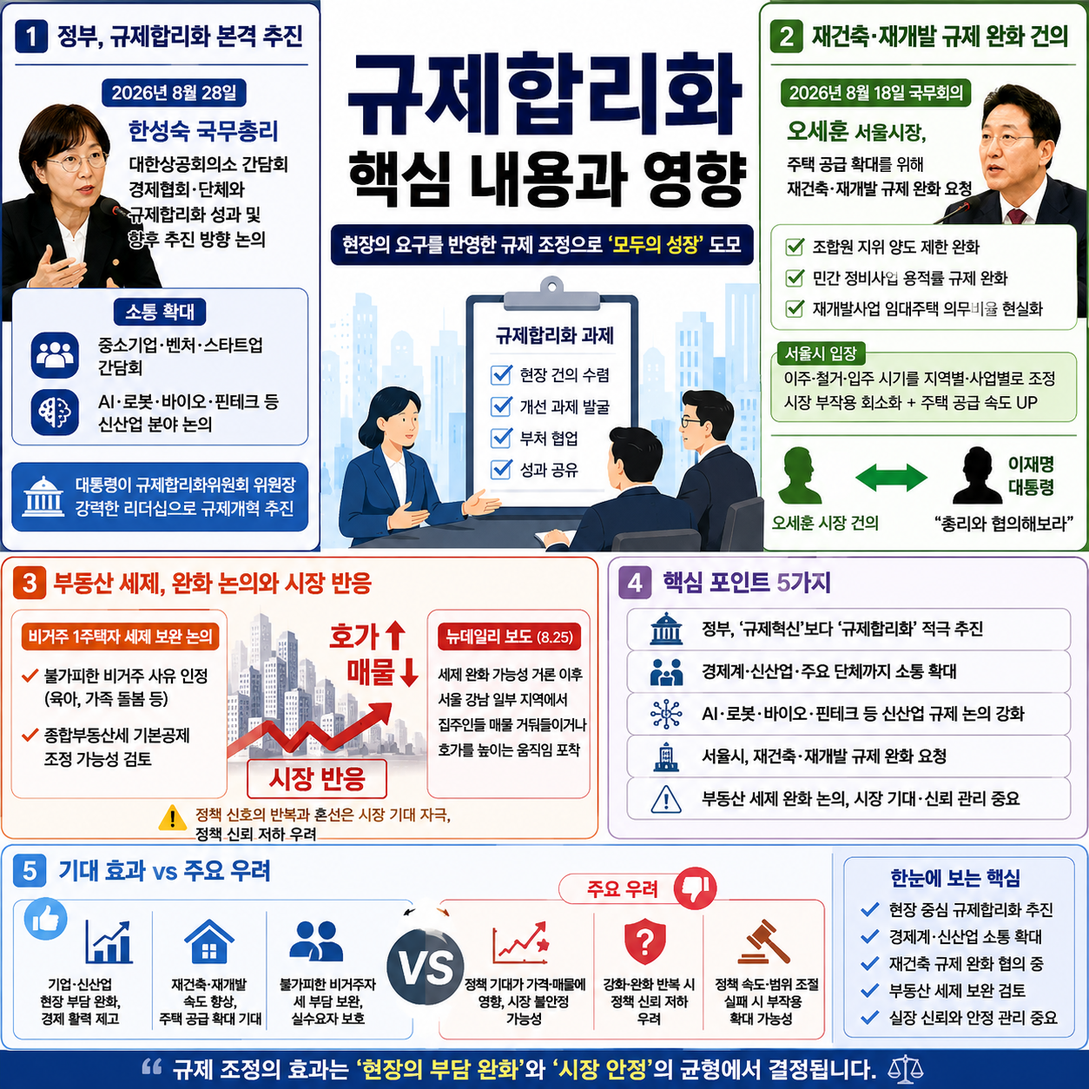
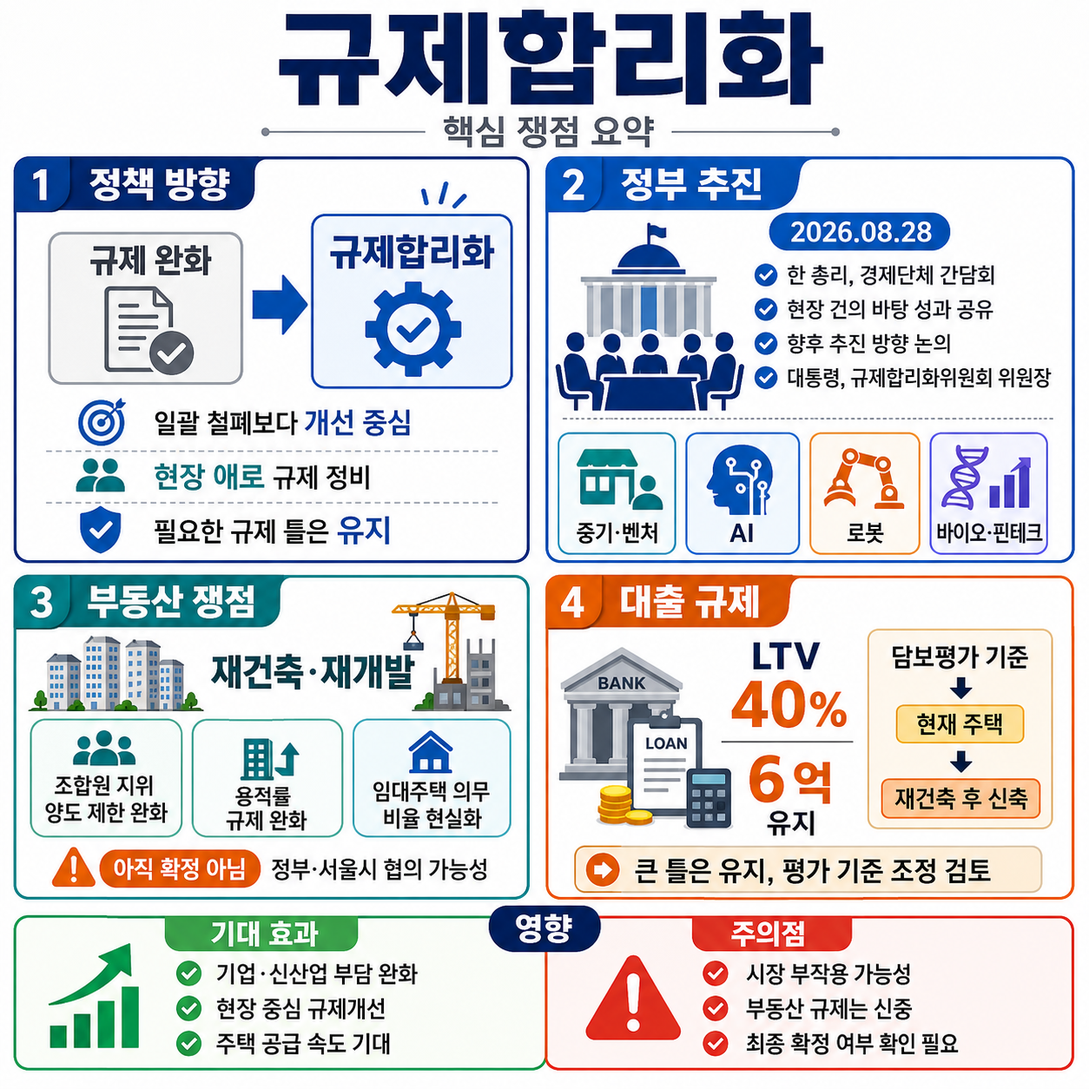
post: auto-generated for tax-yearend

diff --git a/sites/tax-yearend/content/posts/2026-08-29-규제-완화-핵심-내용과-영향-정리.md b/sites/tax-yearend/content/posts/2026-08-29-규제-완화-핵심-내용과-영향-정리.md
@@ -1,100 +1,137 @@
 ---
 title: "규제 완화 핵심 내용과 영향 정리"
 date: 2026-08-29
-description: "요청하신 구성과 조건에 맞춰, 제공된 3개 참고 자료에서 확인되는 사실과 기사에 제시된 평가만 사용해 본문을 완성했습니다. 규제 완화의 일반적 효과와 부동산 분야의 논쟁을 구분해 정리했습니다. 정책·뉴스의 배경과 맥락 2026년 8월 말 정부 정책에서 ‘규제 완화’는 단순히 기존 규제를 일괄적으로 없애는 방식보다는 현장의"
+description: "정책·뉴스의 배경과 맥락 최근 정부 정책에서 ‘규제 완화’보다 ‘규제합리화’라는 표현이 중요한 키워드 로 부상하고 있습니다. 규제를 일괄적으로 없애는 데 초점을 맞추기보다, 현장에서 기업 활동이나 신산업 발전을 제약하는 규제를 찾아 개선하면서도 필요한 규제의 기본 틀은 유지하는 방향으로 접근하고 있다는 점이 특징입니다. "
 categories: ["정책·뉴스"]
 tags: ["규제 완화", "정책·뉴스"]
 author: "오늘의 트렌드"
 image: "/images/규제-완화-핵심-내용과-영향-정리.png"
 ---
 
-요청하신 구성과 조건에 맞춰, 제공된 3개 참고 자료에서 확인되는 사실과 기사에 제시된 평가만 사용해 본문을 완성했습니다. 규제 완화의 일반적 효과와 부동산 분야의 논쟁을 구분해 정리했습니다.
-
 ## 정책·뉴스의 배경과 맥락
 
-2026년 8월 말 정부 정책에서 ‘규제 완화’는 단순히 기존 규제를 일괄적으로 없애는 방식보다는 현장의 요구를 반영해 규제를 조정하는 ‘규제합리화’의 형태로 논의되고 있습니다. 국무조정실에 따르면 한성숙 국무총리는 2026년 8월 28일 서울 중구 대한상공회의소에서 주요 경제협회·단체 관계자들과 간담회를 열고, 국민주권정부 출범 이후 현장 건의를 바탕으로 추진한 규제합리화 성과와 향후 추진 방향을 논의했습니다.
+최근 정부 정책에서 **‘규제 완화’보다 ‘규제합리화’라는 표현이 중요한 키워드**로 부상하고 있습니다. 규제를 일괄적으로 없애는 데 초점을 맞추기보다, 현장에서 기업 활동이나 신산업 발전을 제약하는 규제를 찾아 개선하면서도 필요한 규제의 기본 틀은 유지하는 방향으로 접근하고 있다는 점이 특징입니다.
 
-정부는 규제 개선 논의를 경제계 전반으로 확대하고 있습니다. 한 총리는 취임 이후 중소기업·벤처·스타트업을 비롯해 인공지능(AI), 로봇, 바이오, 핀테크 등 신산업 분야 관계자들과 간담회를 진행했고, 이번에는 주요 경제 협회와 단체까지 참여하는 종합적인 규제합리화 논의를 이어갔습니다. 특히 한 총리는 새 정부가 규제혁신을 강조하고 있으며 대통령이 규제합리화위원회 위원장을 맡아 규제개혁을 추진하고 있다고 설명했습니다.
+2026년 8월 28일 국무조정실에 따르면 한성숙 국무총리는 서울 중구 대한상공회의소에서 주요 경제협회·단체와 간담회를 열었습니다. 이 자리에서는 국민주권정부 출범 이후 현장 건의를 바탕으로 추진한 규제합리화 성과를 공유하고 향후 추진 방향을 논의했습니다. 한 총리는 새 정부가 규제혁신을 강조하고 있으며, **대통령이 규제합리화위원회 위원장을 맡아 규제개혁을 추진하고 있다**고 밝혔습니다.
 
-규제 완화 논의가 특히 첨예하게 나타나는 분야는 부동산입니다. 서울시는 주택 공급을 확대하고 정비사업 속도를 높이기 위해 재개발·재건축 관련 규제를 완화해야 한다는 입장입니다. 오세훈 서울시장은 2026년 8월 18일 이재명 대통령 주재 국무회의에 참석해 재건축·재개발을 주택 공급 해법으로 제시하면서 관련 규제를 풀어달라고 요청했습니다.
+이번 간담회가 단독 행사에 그친 것도 아닙니다. 참고 자료에 따르면 한 총리 취임 이후 중소기업·벤처·스타트업을 대상으로 한 대토론회와 인공지능(AI)·로봇·바이오·핀테크 등 신산업 분야 간담회가 진행됐고, 이후 경제계 대표들과 종합적인 규제개선 방향을 논의하는 자리로 이어졌습니다. 정부가 현장 의견을 수렴하고 이를 규제개선 과제로 연결하려는 흐름으로 볼 수 있습니다.
 
-구체적으로 서울시는 조합원 지위 양도 제한 완화, 민간 정비사업 용적률 규제 완화, 재개발사업 임대주택 의무비율 현실화 등을 건의한 것으로 전해졌습니다. 서울시는 규제를 완화하면서도 이주·철거·입주 시기를 지역별·사업별로 조정하면 시장에 미치는 부작용을 줄이고 주택 공급 속도를 높일 수 있다는 입장입니다. 이에 이 대통령은 오 시장에게 총리와 협의해보라는 취지로 답한 것으로 알려졌습니다.
+규제 문제가 특히 민감하게 나타나는 분야 가운데 하나는 **부동산**입니다. 여기에서는 단순히 규제를 풀 것인지 말 것인지보다 **주택 공급 확대와 시장 안정이라는 두 목표를 어떻게 조정할 것인지**가 핵심 쟁점으로 떠오르고 있습니다.
 
-반면 규제 완화가 시장에 항상 긍정적으로만 작용하는 것은 아니라는 지적도 나옵니다. 특히 부동산 세제처럼 자산가격과 시장 심리에 직접 영향을 주는 정책은 강화와 완화 신호가 짧은 기간에 반복될 경우 시장의 기대를 자극하거나 정책 신뢰를 떨어뜨릴 수 있다는 평가가 제기되고 있습니다. 뉴데일리는 비거주 1주택자에 대한 세제 부담 완화 가능성이 거론된 이후 서울 강남 일부 지역에서 집주인들이 매물을 거둬들이거나 호가를 높이는 움직임이 나타났다고 보도했습니다.
+2026년 8월 18일 국무회의에서는 오세훈 서울시장이 주택 공급 해법으로 재건축·재개발을 제시하면서 관련 규제 완화를 요청했습니다. 구체적으로는 **조합원 지위 양도 제한 완화, 민간 정비사업 용적률 규제 완화, 재개발사업 임대주택 의무 비율 현실화** 등이 건의된 것으로 전해졌습니다. 오 시장은 서울시에 일정한 재량권이 주어진다면 이주·철거·입주 시기를 지역별·사업별로 조정해 시장 부작용을 최소화하면서 공급 속도를 높이겠다는 입장도 밝혔습니다.
 
-결국 현재의 규제 완화 논의는 기업 활동과 신산업의 불필요한 부담을 줄여 경제 활력을 높이려는 흐름과, 부동산처럼 규제 변화가 가격과 시장 심리에 영향을 줄 수 있는 분야에서 정책의 속도와 범위를 어떻게 조정할 것인지라는 두 가지 과제를 동시에 안고 있다고 볼 수 있습니다.
+다만 이러한 요구가 곧바로 정부 정책으로 확정됐다고 해석해서는 안 됩니다. 참고 자료에 따르면 이재명 대통령은 오 시장의 재건축 규제 완화 요청과 관련해 **총리와 협의해보라는 취지의 답변**을 한 것으로 알려졌습니다. 따라서 현재 확인되는 것은 서울시의 건의와 정부·서울시 간 협의 가능성이지, 해당 규제 완화안의 최종 확정은 아닙니다.
 
-## 주요 내용 정리 - 핵심 포인트 5가지
+대출 규제에서도 비슷한 흐름이 나타납니다. 재건축 과정의 기본 이주비 대출과 관련해서는 규제 개선 방안이 검토되고 있지만, 참고 자료에 따르면 규제지역의 **담보인정비율(LTV·담보가치 대비 대출 가능 비율) 40%와 주택담보대출 한도 6억 원이라는 큰 틀은 유지하는 방향**이 거론됐습니다. 대신 담보가치를 현재 부동산이 아닌 재건축 후 신축 부동산을 기준으로 평가하는 방안이 유력한 것으로 전해졌습니다.
 
-### 1. 정부가 ‘규제혁신’보다 ‘규제합리화’를 적극 추진
+결국 세 자료를 종합하면 현재의 규제 논의는 **‘모든 규제를 크게 푼다’는 하나의 방향으로 단순화하기 어렵습니다.** 기업·신산업 분야에서는 현장 건의를 중심으로 규제합리화를 추진하는 한편, 주택 분야에서는 공급 확대를 위한 규제 완화 요구와 기존 시장·대출 규제의 틀을 유지하려는 움직임이 동시에 나타나고 있습니다.
 
-정부는 현장에서 제기되는 규제 문제를 수렴하고 개선하는 방향으로 규제 정책을 추진하고 있습니다. 한성숙 국무총리는 경제계와의 간담회에서 그동안 진행된 규제합리화 성과를 공유하고 향후 개선 방향을 논의했습니다.
+---
 
-정부가 강조하는 방향은 규제를 무조건 없애는 것이 아니라 기업·산업 현장에서 불합리하거나 과도하다고 지적되는 규제를 조정하고, 그 성과가 경제 성장으로 이어지게 하겠다는 것입니다.
+## 주요 내용 정리 — 핵심 포인트 5가지
 
-### 2. 경제계와의 규제개선 소통을 확대
+### 1. 정부는 ‘규제합리화’를 주요 정책 방향으로 제시하고 있습니다
 
-규제 개선 논의 대상도 넓어지고 있습니다. 중소기업과 벤처·스타트업뿐 아니라 AI·로봇·바이오·핀테크 등 신산업 분야를 거쳐 주요 경제협회·단체까지 규제 논의가 확대됐습니다.
+정부가 강조하는 핵심은 현장의 규제개선 요구를 정책에 반영하는 것입니다. 8월 28일 간담회에서는 경제계 대표들과 그동안 추진한 규제합리화 성과를 공유하고 향후 방향을 논의했습니다.
 
-정부는 경제 협·단체와의 소통을 정례화하고 규제개선 과제와 개선사항을 공유하는 방향을 추진하고 있습니다. 이는 규제 정책을 정부 내부에서 일방적으로 결정하기보다 산업 현장의 의견을 지속적으로 반영하려는 움직임으로 볼 수 있습니다.
+특히 대통령이 규제합리화위원회 위원장을 맡는다는 점을 정부는 규제개혁 추진 의지를 보여주는 요소로 제시하고 있습니다. 정부 차원의 규제개선 논의가 경제계와의 소통을 통해 이어지고 있다는 점도 주목할 부분입니다.
 
-### 3. 서울시는 재건축·재개발 규제 완화를 주택 공급 해법으로 제시
+### 2. 중소기업·스타트업과 신산업 분야의 규제 문제가 논의되고 있습니다
 
-서울시는 주택 공급 확대를 위해 신규 공공주택 공급뿐 아니라 기존 도심의 재개발·재건축을 활성화해야 한다는 입장입니다.
+규제합리화 논의는 기존 산업에만 국한되지 않습니다. 참고 자료에서는 **중소기업·벤처·스타트업뿐 아니라 AI·로봇·바이오·핀테크 등 신산업 분야**가 규제 논의 대상으로 등장합니다.
 
-오세훈 시장이 정부에 건의한 내용에는 조합원 지위 양도 제한 완화, 민간 정비사업 용적률 규제 완화, 재개발사업 임대주택 의무비율 현실화 등이 포함된 것으로 전해졌습니다.
+새로운 산업은 기존 제도가 예상하지 못했던 사업 방식이나 기술을 활용할 수 있기 때문에 규제가 산업 발전에 어떤 영향을 미치는지가 중요한 쟁점이 될 수 있습니다. 다만 참고 자료에는 각 산업별 구체적인 규제 완화 항목 전체가 제시돼 있지 않으므로 개별 제도의 변경 여부는 별도로 확인해야 합니다.
 
-서울시는 관련 재량권이 확대될 경우 이주·철거·입주 시기를 지역별·사업별로 조정하면서 공급 속도를 높일 수 있다고 주장하고 있습니다.
+### 3. 서울시는 재건축·재개발 규제 완화를 주택 공급 대책으로 제시했습니다
 
-### 4. 부동산 세제에서도 일부 완화 가능성이 거론
+서울시는 재건축과 재개발의 속도를 높이는 것을 주택 공급 해법 중 하나로 보고 있습니다.
 
-부동산 세제에서는 비거주 1주택자에 대한 부담을 조정할 필요성이 제기되고 있습니다.
+국무회의에서 건의된 것으로 전해진 내용은 다음과 같습니다.
 
-뉴데일리 보도에 따르면 김민석 더불어민주당 대표는 2026년 8월 23일 고위당정협의회에서 세제개편 방향에는 원칙적으로 공감하면서도 비거주 1주택자에 대한 보완이 필요하다는 입장을 밝혔습니다.
+| 건의 사항        | 핵심 내용                   | 현재 확인되는 상태         |
+| ------------ | ----------------------- | ------------------ |
+| 조합원 지위 양도 제한 | 관련 제한 완화 요청             | 서울시 건의             |
+| 민간 정비사업 용적률  | 규제 완화 요청                | 서울시 건의             |
+| 재개발 임대주택     | 의무 비율 현실화 요청            | 서울시 건의             |
+| 사업 일정 관리     | 이주·철거·입주 시기를 지역·사업별로 조정 | 서울시가 재량권 확대 필요성 제시 |
 
-기사에서는 육아나 가족 돌봄 등 불가피한 비거주 사유를 인정하는 방안과 비거주 1주택자의 종합부동산세 기본공제와 관련한 보완 가능성이 거론되고 있다고 전했습니다. 다만 제공된 자료상 이는 확정된 정책이 아니라 검토 가능성이 언급되는 단계이므로 실제 제도 변경 여부는 향후 공식 발표를 확인해야 합니다.
+중요한 점은 **‘건의’와 ‘확정’을 구분해야 한다는 것**입니다. 참고 자료에서 확인되는 단계는 서울시가 정부에 규제 완화를 요청하고 협의 가능성이 제기된 수준입니다.
 
-### 5. 규제 완화가 시장 기대를 자극할 가능성도 존재
+### 4. 이주비 대출 규제는 ‘전면 완화’보다 평가 방식 조정이 거론됐습니다
 
-규제 완화는 기업이나 실수요자의 부담을 줄일 수 있지만, 부동산처럼 시장 참여자의 기대가 가격에 빠르게 반영되는 분야에서는 다른 결과가 나타날 수 있습니다.
+재건축 사업에서는 기존 주택에서 이주해야 하는 조합원의 자금 조달이 중요한 문제입니다.
 
-뉴데일리는 비거주 1주택자 세제 보완 논의 이후 서울 강남 일부 지역에서 매도자의 호가 조정 움직임이 나타났다고 보도했습니다. 기사에 따르면 서초구 반포동 일부 매물에서는 호가가 1억 원 오른 사례도 확인됐습니다.
+참고 자료에 따르면 규제지역의 기본 이주비는 LTV 40%가 적용되고 대출 한도 역시 6억 원 이내입니다. 업계에서는 이주비 대출을 일반 주택담보대출과 다르게 다뤄야 한다고 주장해 왔으며, 서울시는 LTV를 70%로 높이는 방안을 건의한 것으로 전해졌습니다.
 
-이 때문에 규제를 완화할 때 정책 효과뿐 아니라 시장 기대와 가격 움직임까지 함께 고려해야 한다는 문제가 제기되고 있습니다.
+그러나 당시 정부가 검토 중인 것으로 알려진 방안은 **40%와 6억 원의 기본 틀을 유지하면서 담보 평가기준을 현재 부동산에서 재건축 후 신축 부동산으로 변경하는 것**이었습니다.
 
-## 국민에게 미치는 영향 - 긍정적·부정적 측면
+즉, 규제의 숫자 자체를 크게 바꾸기보다는 평가 방식을 조정해 실제 이주비 조달 여력을 개선하는 접근입니다.
 
-| 구분  | 예상되는 영향                   | 참고할 점                            |
-| --- | ------------------------- | -------------------------------- |
-| 긍정적 | 기업의 규제 부담 완화 가능성          | 현장 건의를 반영한 규제합리화가 추진되고 있음        |
-| 긍정적 | 신산업 사업 추진 환경 개선 가능성       | AI·로봇·바이오·핀테크 등과 규제 논의 진행        |
-| 긍정적 | 재건축·재개발 사업 속도 개선 가능성      | 서울시가 관련 규제 완화를 정부에 건의            |
-| 긍정적 | 일부 비거주 1주택자의 세 부담 보완 가능성  | 구체적인 제도 변경은 아직 확정되지 않음           |
-| 부정적 | 부동산 가격 기대 심리 자극 가능성       | 일부 강남 지역에서 호가 상승 움직임 보도          |
-| 부정적 | 정책 변경이 잦을 경우 시장 혼선 가능성    | 세제 강화·완화 방향 변화에 대한 비판 제기         |
-| 부정적 | 규제 완화의 혜택이 특정 시장에 집중될 가능성 | 부동산 규제 변화에 따른 자산가격 반응을 함께 고려해야 함 |
+### 5. 규제 완화의 핵심 쟁점은 ‘속도’와 ‘부작용 관리’입니다
 
-규제합리화가 기업과 신산업 분야에서 불필요한 행정 부담을 줄인다면 투자와 사업 추진 과정이 원활해질 가능성이 있습니다. 특히 정부가 현장 의견을 정기적으로 수렴하고 개선 결과를 공유한다면 기업 입장에서는 규제의 예측 가능성을 높이는 효과를 기대할 수 있습니다.
+규제를 풀면 사업 추진이나 공급 속도가 빨라질 수 있다는 기대가 있습니다. 반면 주택시장처럼 시장에 미치는 파급효과가 큰 분야에서는 규제 완화의 부작용도 함께 고려해야 합니다.
 
-주택 분야에서는 재건축·재개발 사업에 적용되는 규제가 조정될 경우 사업 진행 속도가 빨라지고 중장기적으로 주택 공급 확대에 도움이 될 수 있다는 것이 서울시의 입장입니다.
+서울시 역시 단순히 규제를 풀어달라는 데서 그치지 않고, 재량권을 확보할 경우 **이주·철거·입주 시기를 지역별·사업별로 조정해 시장 부작용을 최소화하겠다**는 입장을 밝혔습니다.
 
-반면 규제 완화의 효과가 실제 공급 증가보다 시장 기대에 먼저 반영될 가능성도 있습니다. 특히 세금이나 재건축 규제는 집주인의 매도·보유 판단에 직접 영향을 줄 수 있기 때문에 완화 가능성만으로도 매물이 줄거나 호가가 올라갈 수 있습니다.
+따라서 현재 규제 논의를 이해할 때는 ‘규제 강화 대 규제 완화’라는 이분법보다 **어떤 규제를, 어느 범위까지, 어떤 안전장치와 함께 조정하느냐**를 살펴보는 것이 중요합니다.
 
-따라서 국민 입장에서는 ‘규제가 완화된다’는 표현만 보고 혜택을 단정하기보다 어떤 규제가 누구에게, 어떤 조건으로 완화되는지를 구체적으로 확인할 필요가 있습니다.
+---
+
+## 국민에게 미치는 영향 — 긍정적 측면과 부정적 측면
+
+규제합리화가 국민에게 미치는 영향은 분야마다 다를 수 있습니다. 특히 기업 규제와 부동산 규제는 영향을 받는 대상과 정책 목적이 다르기 때문에 구분해서 볼 필요가 있습니다.
+
+| 구분      | 기대되는 긍정적 측면                          | 우려·한계                                           |
+| ------- | ------------------------------------ | ----------------------------------------------- |
+| 기업·산업   | 현장 애로 규제 개선 기대                       | 구체적인 개선 내용에 따라 체감 효과가 달라질 수 있음                  |
+| 신산업     | AI·로봇·바이오·핀테크 등 새로운 산업의 규제 문제 논의     | 분야별 구체적 변경 사항은 별도 확인 필요                         |
+| 재건축·재개발 | 정비사업 속도를 높여 공급 확대에 기여할 가능성           | 규제 완화안 자체가 아직 확정되지 않은 사항이 있음                    |
+| 이주비     | 담보 평가기준 변경 시 일부 조합원의 대출 가능액이 늘어날 가능성 | LTV 40%·6억 원 틀이 유지될 경우 업계가 요구한 수준에는 미치지 못할 수 있음 |
+| 주택시장    | 공급 절차 개선 가능성                         | 이주·철거·입주가 집중될 경우 시장 부작용 관리가 필요하다는 문제의식 존재       |
+
+### 긍정적으로 보는 시각
+
+가장 큰 기대는 **규제가 현실과 맞지 않는 부분을 개선해 경제활동의 효율성을 높일 수 있다는 것**입니다. 정부가 중소기업·벤처·스타트업과 신산업 현장의 목소리를 직접 듣고 경제계와 규제개선 방향을 논의하는 것은 현장 중심의 제도 개선이라는 측면에서 의미가 있습니다.
+
+부동산 분야에서는 재건축·재개발 규제가 조정될 경우 정비사업의 진행 속도를 높이고 주택 공급을 확대하는 데 도움이 될 수 있다는 논리가 있습니다. 서울시가 규제 완화를 주택 공급 해법으로 제시한 것도 이러한 판단에 기반합니다.
+
+이주비 문제에서도 담보 평가기준을 현재 부동산이 아니라 신축 후 부동산으로 변경하면 기존보다 담보가치가 높게 평가되는 경우 대출 가능 금액이 증가할 여지가 있습니다.
+
+### 신중하게 보는 시각
+
+반면 규제를 완화한다고 해서 모든 문제가 자동으로 해결되는 것은 아닙니다.
+
+특히 부동산에서는 사업 속도가 빨라지는 것과 시장 안정이 동시에 고려돼야 합니다. 서울시가 이주·철거·입주 시기를 지역별·사업별로 조정하겠다고 밝힌 것 역시 공급 확대 과정에서 발생할 수 있는 부작용을 의식한 것으로 볼 수 있습니다.
+
+이주비 대출 역시 업계가 원하는 수준과 정부가 검토하는 것으로 알려진 수준 사이에 차이가 있습니다. 업계는 이주비 대출을 일반 주택담보대출이 아니라 사업자금으로 관리해야 한다는 의견을 제시했고, 서울시는 LTV 70%를 건의했습니다. 반면 참고 자료에서 전해진 정부 검토 방향은 LTV 40%와 6억 원이라는 틀을 유지하는 것이었습니다.
+
+따라서 정책 수혜자 입장에서는 **‘규제 완화’라는 표현만 보고 대출 한도나 사업 조건이 즉시 크게 달라졌다고 판단하지 않는 것이 중요합니다.**
+
+---
 
 ## 전문가 의견 및 분석
 
-제공된 자료를 종합하면 현재 규제 완화 논의의 핵심 쟁점은 ‘규제를 얼마나 많이 없앨 것인가’보다는 ‘어떤 규제를 어떤 방식으로 조정할 것인가’에 가깝습니다.
+이번 참고 자료에서 확인되는 규제합리화 논의의 특징은 **정부·지방자치단체·업계가 규제 문제의 방향에는 일정 부분 공감하면서도 구체적인 완화 수준에서는 차이가 있다는 점**입니다.
 
-정부는 규제합리화를 경제 성장과 연결하려는 입장입니다. 기업과 신산업 분야에서 불필요한 규제가 사업 추진을 늦추거나 새로운 서비스의 시장 진입을 막는 경우 이를 개선하면 경제 활동을 촉진할 수 있다는 논리입니다. 정부가 경제 협·단체와 소통을 정례화하려는 것도 현장에서 실제로 부담이 되는 규제를 지속적으로 확인하기 위한 조치로 해석할 수 있습니다.
+부동산 이주비 규제가 대표적입니다.
 
-주택 분야에서는 규제 완화의 목적이 보다 구체적입니다. 서울시는 재건축·재개발 규제를 조정해 사업 속도를 높이면 서울 내 주택 공급을 확대할 수 있다고 보고 있습니다. 특히 단순히 규제를 풀기만 하는 것이 아니라 이주·철거·입주 시기를 사업별로 조정해 시장에 미치는 부작용을 최소화하겠다는 입장을 제시했습니다.
+업계에서는 기본 이주비가 일반적인 주택담보대출과 성격이 다르기 때문에 규제를 차등 적용해야 한다고 주장했습니다. 이주비를 주택담보대출이 아닌 사업자금으로 관리해야 한다는 의견도 제시했습니다.
 
-하지만 시장 반응은 정책 목표와 다르게 나타날 수 있습니다. 뉴데일리는 비거주 1주택자에 대한 세 부담 완화 가능성이 거론된 이후 일부 강남 아파트에서 호가가 다시 상승하는 움직임이 나타났다고 보도했습니다.
+서울시는 더 구체적으로 LTV 비율을 70%로 높여달라고 건의한 것으로 보도됐습니다.
 
-이 사례는 규제 완화 정책을 평가할 때 실제 시행 이후의 효과뿐 아니라 정책 발표와 검토 단계에서 발생하는 기대 심리도 중요하다는 점을 보여줍니다.
+하지만 파이낸셜뉴스 보도에서 전해진 정부 검토 방향은 이보다 제한적입니다. **LTV 40%와 6억 원이라는 기본 틀을 유지하고 담보가치 평가기준을 조정하는 방안**이 유력한 것으로 알려졌기 때문입니다.
 
-또 하나의 쟁점은 정책의 일관성입니다. 규제를 강화했다가 비교적 짧은 기간 안에 보완하거나 완화하는 움직임이 반복될 경우 시장 참여자들이 장기적인 정책 방향을 판단하기 어려워질 수 있다는 비판이 제기되고 있습니다. 따라서 규제 완화 자체뿐 아니라 정책 결정 과정과 기준을 명확하게 설명하는 것이 중요해질 것으로 보입니다.
+업계 관계자 역시 담보평가 기준이 바뀌면 대출액이 어느 정도 늘어날 수 있지만 시장에서 원하는 수준의 규제 완화와는 거리가 있다는 취지로 평가했습니다. 또 다른 업계 관계자도 실질적으로는 담보가치 평가기준만 바뀌는 것 같다는 견해를 밝혔습니다.
+
+이 대목은 규제합리화 정책을 해석하는 데 중요한 단서입니다.
+
+정부가 규제개혁을 강조한다고 해서 모든 분야에서 기존 규제를 일괄적으로 폐지하거나 완화하는 것은 아닙니다. **현행 규제의 목적을 유지하면서 적용 방식이나 평가 기준을 조정하는 것도 규제합리화에 포함될 수 있습니다.**
+
+재건축·재개발 규제도 마찬가지입니다. 서울시는 조합원 지위 양도 제한, 용적률, 임대주택 의무 비율 등에 대한 완화를 요구하고 있지만, 참고 자료 기준으로 이 요구들이 모두 정부 정책으로 확정됐다고 볼 근거는 없습니다.
+
+따라서 현 단계에서는 **정부의 규제합리화 추진 의지**, **서울시의 재건축·재개발 규제 완화 요구**, **이주비 대출 규제의 제한적인 개선 가능성**을 각각 구분해 이해하는 것이 정확합니다.
+
+---
 
 
 <figure class="post-mid-image">
@@ -103,105 +140,112 @@ image: "/images/규제-완화-핵심-내용과-영향-정리.png"
 
 ## 향후 전망과 일정
 
-현재 자료에서 확인되는 규제합리화 논의는 한 차례 조치로 끝나기보다 정부와 경제계의 지속적인 협의 방식으로 추진될 가능성이 있습니다.
+참고 자료에서 확인되는 흐름을 시간 순서로 정리하면 다음과 같습니다.
 
-국무조정실은 경제 협·단체와의 소통을 정례화하고 규제개선 과제와 개선사항을 공유하는 방향을 제시했습니다. 따라서 앞으로도 산업계가 제시한 규제 개선 요구와 정부의 검토 결과가 계속 공개될 가능성이 있습니다.
+| 시점           | 주요 내용                                 | 의미                                            |
+| ------------ | ------------------------------------- | --------------------------------------------- |
+| 2026년 7월     | 서울시가 재건축 관련 규제개선 내용을 정부 측에 전달한 것으로 보도 | 재건축·재개발 규제 완화 논의                              |
+| 2026년 7월 26일 | 이주비 대출 규제 개선 방향 관련 보도                 | LTV 40%·6억 원 틀 유지, 담보평가 기준 변경 방안이 유력한 것으로 전해짐 |
+| 2026년 8월 18일 | 오세훈 서울시장이 국무회의에서 재건축·재개발 규제 완화 요청     | 중앙정부와 서울시 간 협의 가능성 부각                         |
+| 2026년 8월 28일 | 한성숙 국무총리와 주요 경제협회·단체 간 규제합리화 간담회      | 기존 성과 공유 및 향후 추진 방향 논의                        |
 
-부동산 분야에서는 서울시의 재건축·재개발 규제 완화 건의를 두고 정부와 서울시의 후속 협의가 중요한 변수가 될 것으로 보입니다. 이 대통령이 오 시장에게 총리와 협의해보라는 취지로 답한 만큼 실제 어떤 규제가 논의 대상에 오를지 지켜볼 필요가 있습니다.
+앞으로 주목할 부분은 크게 두 갈래입니다.
 
-세제 분야에서는 비거주 1주택자에 대한 보완 필요성이 제기됐지만, 제공된 자료에서는 최종 확정된 내용까지 확인되지 않습니다. 따라서 세 부담과 관련한 의사결정은 공식적인 정책 발표와 확정 내용을 확인한 뒤 판단하는 것이 필요합니다.
+첫째는 **정부의 전반적인 규제합리화 정책이 구체적인 제도 변경으로 어떻게 연결되는지**입니다. 정부는 경제계와의 소통을 이어가면서 규제개선 과제와 개선사항을 공유하는 방향을 제시하고 있습니다.
 
-### 주요 흐름 타임라인
+둘째는 **부동산 규제와 관련한 정부·서울시 협의가 실제 정책 변화로 이어지는지**입니다. 이재명 대통령이 오세훈 시장의 요청에 대해 총리와 협의해보라는 취지로 답한 것으로 전해진 만큼 향후 협의 과정이 중요한 변수가 될 수 있습니다.
 
-| 날짜           | 주요 내용                                       |
-| ------------ | ------------------------------------------- |
-| 2026년 8월 18일 | 오세훈 서울시장이 국무회의에서 재건축·재개발 규제 완화를 요청          |
-| 2026년 8월 23일 | 고위당정협의회에서 비거주 1주택자에 대한 세제 보완 필요성 제기         |
-| 2026년 8월 25일 | 세제 완화 기대와 일부 강남 지역 호가 조정 움직임 관련 보도          |
-| 2026년 8월 28일 | 한성숙 국무총리가 경제 협·단체와 규제합리화 간담회 개최             |
-| 향후           | 경제계 규제개선 과제 논의와 정부·서울시 간 부동산 규제 관련 협의 여부 주목 |
+다만 제공된 참고 자료에는 개별 규제 개선안의 최종 확정일이나 시행일 등 구체적인 향후 일정이 명시돼 있지 않습니다. 따라서 시행 시기나 최종 변경 내용은 **관련 정부 부처와 지방자치단체의 공식 안내를 확인할 필요가 있습니다.**
+
+---
 
 ## 관련 정책 비교
 
-| 구분    | 정부 규제합리화             | 재건축·재개발 규제 완화 건의                       | 비거주 1주택자 세제 보완 논의          |
-| ----- | -------------------- | -------------------------------------- | -------------------------- |
-| 주요 목적 | 불합리한 규제 개선과 경제 성장 연결 | 정비사업 속도 개선 및 주택 공급 확대                  | 불가피한 비거주자의 세 부담 문제 보완      |
-| 주요 대상 | 기업·산업 전반             | 서울 재개발·재건축 사업                          | 비거주 1주택자                   |
-| 주요 내용 | 현장 건의 수렴, 개선과제 공유    | 조합원 지위 양도 제한·용적률·임대주택 의무비율 관련 규제 완화 건의 | 비거주 사유 및 세 부담 보완 방안 검토 가능성 |
-| 현재 단계 | 정부 차원의 규제합리화 추진      | 서울시가 정부에 건의한 단계                        | 보완 필요성이 제기된 단계             |
-| 기대 효과 | 기업 활동과 신산업 활성화       | 정비사업 속도 및 공급 확대 가능성                    | 일부 실수요자의 세 부담 조정 가능성       |
-| 우려 요인 | 분야별 효과 차이            | 시장 기대 심리와 가격 상승 가능성                    | 정책 변경에 따른 시장 혼선 가능성        |
+이번 규제 논의는 하나의 정책으로 묶기보다 성격에 따라 나눠서 보는 것이 이해하기 쉽습니다.
 
-표에서 가장 중요한 부분은 세 정책의 진행 단계가 서로 다르다는 점입니다. 정부의 전반적인 규제합리화는 이미 추진되고 있는 정책 방향이지만, 서울시가 요청한 재건축·재개발 규제 완화는 정부와의 협의가 필요한 사안입니다. 비거주 1주택자에 대한 세제 보완 역시 제공된 자료 기준으로는 최종 확정 정책이라고 볼 수 없습니다.
+| 정책·논의 분야         | 추진·제안 주체      | 주요 내용                            | 참고 자료상 상태    |
+| ---------------- | ------------- | -------------------------------- | ------------ |
+| 경제 전반 규제합리화      | 정부            | 현장 건의를 바탕으로 규제개선 추진              | 정부 추진 방향     |
+| 중소기업·벤처·스타트업 규제  | 정부·관련 업계      | 현장 의견 수렴 및 규제 문제 논의              | 대토론회 등 진행    |
+| AI·로봇·바이오·핀테크 규제 | 정부·관련 업계      | 신산업 규제 문제 논의                     | 분야별 간담회 진행   |
+| 재건축·재개발 규제       | 서울시 건의        | 조합원 지위 양도 제한, 용적률 등 규제 완화 요청     | 정부에 건의·협의 단계 |
+| 재개발 임대주택         | 서울시 건의        | 의무 비율 현실화 요청                     | 정부에 건의       |
+| 기본 이주비 대출        | 정부 검토 방향으로 보도 | LTV 40%·6억 원 틀 유지, 담보평가 기준 조정 방안 | 검토 방향으로 보도   |
+| 이주비 LTV 확대       | 서울시 건의        | LTV 70% 건의                       | 건의 사항        |
+| 이주비 성격 변경        | 업계 건의         | 일반 주담대가 아닌 사업자금으로 관리 요구          | 업계 의견        |
+
+이 표에서 가장 중요하게 봐야 할 부분은 마지막 열입니다.
+
+**정부가 추진한다고 공식적으로 밝힌 방향과 지방자치단체·업계가 정부에 건의한 내용은 동일하지 않습니다.**
+
+예를 들어 ‘서울시가 이주비 LTV 70%를 건의했다’는 사실을 ‘정부가 LTV를 70%로 완화한다’고 표현하면 정책의 현재 상태를 잘못 전달하게 됩니다.
+
+마찬가지로 재건축·재개발 규제 완화 역시 서울시의 요청 사항과 실제 정부 정책으로 확정된 사항을 구분해서 살펴봐야 합니다.
+
+---
 
 ## 시민이 알아야 할 점 5가지
 
-### 1. ‘규제 완화’라고 해서 모든 규제가 동시에 없어지는 것은 아닙니다
+**첫째, ‘규제 완화’와 ‘규제합리화’를 구분해서 볼 필요가 있습니다.**
+정부가 현재 강조하는 표현은 규제합리화입니다. 규제를 무조건 없애는 것이 아니라 현장에서 불합리하다고 제기되는 규제를 검토하고 개선하는 접근으로 이해할 필요가 있습니다.
 
-현재 정부가 사용하는 핵심 표현은 ‘규제합리화’입니다. 따라서 개별 규제의 목적과 필요성을 따져 조정하는 방식으로 진행될 가능성이 높습니다.
+**둘째, 재건축·재개발 규제 완화안은 건의와 확정을 반드시 구분해야 합니다.**
+조합원 지위 양도 제한 완화, 민간 정비사업 용적률 규제 완화, 재개발사업 임대주택 의무 비율 현실화 등은 참고 자료에서 서울시가 정부에 건의한 내용으로 확인됩니다. 모두 시행이 확정됐다고 볼 수는 없습니다.
 
-### 2. 재건축·재개발 규제 완화는 아직 서울시의 건의 사항이 포함돼 있습니다
+**셋째, 이주비 대출의 LTV 70% 역시 서울시의 건의 사항입니다.**
+참고 자료에서 확인되는 정부 검토 방향으로는 기존 LTV 40%와 6억 원이라는 틀이 유지되고 담보 평가기준을 변경하는 방안이 유력한 것으로 전해졌습니다.
 
-조합원 지위 양도 제한, 용적률, 임대주택 의무비율 등에 대한 완화 필요성이 제기됐지만 제공된 자료만으로 모두 확정됐다고 판단해서는 안 됩니다.
+**넷째, 담보 평가기준이 바뀌는 것과 대출 규제 자체가 없어지는 것은 다릅니다.**
+재건축 후 신축 부동산을 기준으로 담보가치를 평가할 경우 대출 가능 금액에 변화가 생길 수 있지만, 참고 자료에서 보도된 방향대로라면 LTV와 대출 한도의 큰 틀은 유지됩니다.
 
-### 3. 부동산 세제 보완 역시 최종 확정 여부를 확인해야 합니다
+**다섯째, 실제 적용 여부는 최종 정책을 확인해야 합니다.**
+현재 논의되는 내용에는 정부 추진 방향뿐 아니라 서울시 건의, 업계 요구, 정부가 검토 중인 것으로 보도된 방안이 함께 포함돼 있습니다. 실제 재건축·재개발 사업이나 대출을 계획하고 있다면 기사에 나온 건의 사항만으로 판단하지 말고 **방문 전 공식 안내 확인 및 관련 기관의 최종 정책 발표를 확인하는 것이 필요합니다.**
 
-비거주 1주택자에 대한 보완 필요성이 제기되고 일부 방안이 거론됐지만, 기사에서 언급된 검토 가능성과 실제 시행 정책은 구분해야 합니다.
-
-### 4. 규제 완화 가능성만으로 부동산 시장이 움직일 수 있습니다
-
-일부 강남 지역에서는 세 부담 완화 가능성이 거론된 이후 호가를 올리는 움직임이 보도됐습니다. 정책이 확정되지 않은 상태에서도 시장 기대가 가격에 반영될 수 있다는 점을 유의해야 합니다.
-
-### 5. 실제 혜택 여부는 최종 정책 발표를 기준으로 판단해야 합니다
-
-규제 완화 논의 과정에서 여러 제안이 등장할 수 있지만 모든 제안이 정책으로 확정되는 것은 아닙니다. 세금이나 주택 매매와 같이 금액이 큰 의사결정을 할 때는 정부의 최종 발표 내용을 확인하는 것이 중요합니다.
+---
 
 ## 자주 묻는 질문(FAQ)
 
-**Q: 정부가 모든 규제를 대대적으로 없애는 건가요?**
+**Q: 정부가 모든 분야의 규제를 대폭 완화하기로 한 것인가요?**
 
-A: 제공된 자료에서 정부가 강조하는 방향은 모든 규제를 일괄적으로 없애는 것이 아니라 ‘규제합리화’입니다. 기업과 산업 현장의 건의를 반영해 불합리한 규제를 개선하고 그 결과를 경제 성장으로 연결하겠다는 것이 정부의 설명입니다.
+A: 그렇게 단정하기는 어렵습니다. 참고 자료에서 정부는 ‘규제합리화’를 강조하고 있으며, 중소기업·벤처·스타트업과 AI·로봇·바이오·핀테크 등 신산업 분야의 현장 의견을 듣고 규제개선 방향을 논의하고 있습니다. 부동산 대출처럼 기존 규제의 큰 틀을 유지하면서 일부 기준을 조정하는 방안도 거론되고 있습니다.
 
-**Q: 재건축과 재개발 규제 완화가 이미 확정됐나요?**
+**Q: 재건축·재개발 규제가 이미 완화된 것인가요?**
 
-A: 아닙니다. 제공된 자료에서는 오세훈 서울시장이 조합원 지위 양도 제한, 민간 정비사업 용적률, 재개발사업 임대주택 의무비율 등과 관련한 규제 완화를 정부에 요청한 것으로 확인됩니다. 이 대통령은 총리와 협의해보라는 취지로 답한 것으로 알려졌기 때문에 후속 협의 결과를 확인해야 합니다.
+A: 참고 자료만으로는 그렇게 볼 수 없습니다. 오세훈 서울시장은 2026년 8월 18일 국무회의에서 재건축·재개발 속도를 높이기 위해 관련 규제를 풀어달라고 요청했습니다. 조합원 지위 양도 제한, 민간 정비사업 용적률, 재개발 임대주택 의무 비율 등이 건의 내용으로 전해졌지만, 참고 자료에서는 이 내용이 최종 정책으로 확정됐다고 밝히지 않았습니다.
 
-**Q: 비거주 1주택자의 종합부동산세 부담이 바로 줄어드는 건가요?**
+**Q: 재건축 이주비 LTV가 70%로 올라가는 것인가요?**
 
-A: 제공된 자료만으로 확정됐다고 볼 수 없습니다. 비거주 1주택자의 세 부담을 보완해야 한다는 의견이 제기됐고 일부 방안이 검토될 가능성이 거론되고 있지만, 실제 적용 여부와 구체적인 기준은 최종 정책 발표를 확인해야 합니다.
+A: 참고 자료에 따르면 LTV 70%는 서울시가 건의한 내용입니다. 반면 정부가 검토 중인 것으로 보도된 개선 방향은 규제지역 기본 이주비의 LTV 40%와 6억 원 한도를 유지하면서 담보 평가기준을 현재 부동산에서 재건축 후 신축 부동산으로 변경하는 방안입니다. 따라서 LTV 70% 적용이 확정됐다고 해석해서는 안 됩니다.
 
-**Q: 규제를 완화하면 집값이 반드시 오르나요?**
+**Q: 담보 평가기준을 신축 후 주택으로 바꾸면 어떤 차이가 있나요?**
 
-A: 반드시 그렇다고 단정할 수는 없습니다. 다만 제공된 자료에서는 비거주 1주택자 세제 완화 가능성이 알려진 이후 서울 강남 일부 지역에서 매도자가 호가를 올리는 움직임이 나타났다고 보도했습니다. 정책 변화에 대한 기대가 단기적으로 시장 심리에 영향을 줄 가능성은 있다는 의미입니다.
+A: 참고 자료에서 전해진 방안은 현재 부동산 대신 재건축 후 신축 부동산을 기준으로 담보가치를 평가하는 것입니다. 이렇게 평가기준이 바뀌면 일부 경우 기본 이주비 대출 가능 금액이 늘어날 여지가 있습니다. 다만 보도된 방향에서는 LTV 40%와 6억 원이라는 큰 틀 자체는 유지되는 것으로 알려졌습니다.
 
-**Q: 일반 시민은 규제 완화 정책에서 무엇을 가장 먼저 확인해야 하나요?**
+**Q: 앞으로 규제 완화 정책에서 무엇을 가장 주의해서 봐야 하나요?**
 
-A: 우선 해당 정책이 ‘검토 단계’인지 ‘확정 단계’인지 확인하는 것이 중요합니다. 다음으로 자신이 실제 적용 대상에 포함되는지, 적용 조건이 무엇인지 살펴봐야 합니다. 특히 부동산 세금이나 정비사업처럼 재산상 의사결정과 관련된 정책은 언론에서 거론되는 방안만을 기준으로 판단하지 말고 정부의 최종 발표 내용을 확인할 필요가 있습니다.
+A: 정책의 ‘단계’를 확인하는 것이 중요합니다. 정부가 공식적으로 추진한다고 발표한 사항인지, 지방자치단체가 정부에 건의한 사항인지, 업계가 요구하는 내용인지, 정부가 검토 중인 것으로 보도된 내용인지 구분해야 합니다. 특히 부동산과 대출 관련 정책은 실제 적용 조건이 중요하기 때문에 최종 확정 내용과 시행 여부는 공식 안내를 확인해야 합니다.
 
-## 종합 정리
+---
 
-2026년 8월 현재 규제 완화는 정부 경제정책의 중요한 화두 가운데 하나입니다. 정부는 기업과 신산업 현장의 의견을 반영한 규제합리화를 추진하고 있으며, 경제 협·단체와의 소통도 정례화하는 방향을 제시하고 있습니다.
+## 정리
 
-부동산 분야에서는 서울시가 재건축·재개발 규제 완화를 통해 주택 공급 속도를 높여야 한다고 정부에 요청했습니다. 동시에 비거주 1주택자의 세 부담과 관련해서도 기존 정책을 보완해야 한다는 의견이 나오고 있습니다.
+2026년 8월 현재 참고 자료에서 확인되는 규제 정책의 핵심은 **‘전면적인 규제 철폐’라기보다 분야별 규제합리화 논의가 확대되고 있다는 것**으로 정리할 수 있습니다.
 
-다만 규제를 완화하면 경제 활동이나 주택 공급을 촉진할 수 있다는 기대와 함께, 부동산 시장에서는 규제 완화 기대 자체가 호가 상승이나 매물 감소로 이어질 수 있다는 우려도 나타나고 있습니다.
+정부는 경제계 및 신산업 현장과의 소통을 통해 규제개선을 추진하고 있고, 대통령이 규제합리화위원회 위원장을 맡는 등 규제개혁을 주요 정책 방향으로 강조하고 있습니다.
 
-따라서 향후 규제 정책의 성패는 규제를 얼마나 많이 푸느냐만으로 평가하기 어렵습니다. 실제 현장의 부담을 줄이면서도 시장의 과도한 기대와 혼선을 관리하고, 정책 방향을 일관되게 제시할 수 있는지가 중요한 판단 기준이 될 것으로 보입니다.
+부동산에서는 조금 더 복잡합니다. 서울시는 재건축·재개발 규제 완화를 통해 주택 공급 속도를 높여야 한다고 주장하고 있습니다. 조합원 지위 양도 제한, 용적률, 임대주택 의무 비율 등이 주요 건의 대상입니다.
 
-특히 현재 논의되고 있는 부동산 관련 규제와 세제 보완안 가운데 일부는 아직 확정되지 않은 내용이 포함돼 있습니다. 시민 입장에서는 정책 논의와 최종 확정 내용을 구분하고, 실제 제도 변경이 발표된 이후 자신의 상황에 어떤 영향을 미치는지 확인하는 접근이 필요합니다.
+하지만 정부의 실제 정책이 서울시의 요구와 동일한 수준으로 결정됐다고 볼 수는 없습니다. 이주비 대출만 보더라도 업계와 서울시는 더 큰 폭의 규제 완화를 요구하고 있지만, 정부가 검토하는 것으로 보도된 방안은 기존 LTV 40%와 6억 원 틀을 유지하면서 담보 평가방식을 조정하는 수준입니다.
+
+결국 앞으로의 관전 포인트는 **규제합리화라는 큰 정책 방향이 개별 산업과 부동산 현장에서 어느 정도의 실질적인 제도 변화로 이어질 것인지**입니다. 특히 재건축·재개발 분야에서는 공급 확대 효과뿐 아니라 이주·철거·입주 과정에서 나타날 수 있는 시장 영향을 어떻게 관리할지도 함께 살펴봐야 합니다.
+
+국민 입장에서는 ‘규제 완화 추진’이라는 큰 제목보다 **무엇이 확정됐는지, 무엇이 아직 건의 또는 검토 단계인지**를 구분하는 것이 무엇보다 중요합니다.
 
 ## 출처
 
-* 대한민국 정책브리핑, 「한 총리 "규제합리화 성과가 '모두의 성장'으로 이어지도록 하겠다"」, 2026.08.28
-  [https://korea.kr/news/policyNewsView.do?newsId=148970843](https://korea.kr/news/policyNewsView.do?newsId=148970843)
-
-* 연합뉴스, 「오세훈, 국무회의서 "재건축 규제완화"…李 "총리와 협의해보라"(종합)」, 2026.08.18
-  [https://www.yna.co.kr/view/AKR20260818093051004](https://www.yna.co.kr/view/AKR20260818093051004)
-
-* 뉴데일리, 「강남 아파트 호가 1~2억 줄상향 … 돈키호테식 실거주 정책에 시장 몸살」, 2026.08.25
-  [https://biz.newdaily.co.kr/site/data/html/2026/08/25/2026082500118.html](https://biz.newdaily.co.kr/site/data/html/2026/08/25/2026082500118.html)
-
-원하시면 이어서 이 본문을 바탕으로 **블로그 썸네일용 핵심 문구**나 **16:9 인포그래픽 이미지**까지 바로 구성해드릴 수 있습니다.
+* [대한민국 정책브리핑 — 한 총리 “규제합리화 성과가 ‘모두의 성장’으로 이어지도록 하겠다”](https://korea.kr/news/policyNewsView.do?newsId=148970843&utm_source=chatgpt.com)
+* [연합뉴스 — 오세훈, 국무회의서 “재건축 규제완화”…李 “총리와 협의해보라”](https://www.yna.co.kr/view/AKR20260818093051004?utm_source=chatgpt.com)
+* [파이낸셜뉴스 — 이주비 규제완화…결국 ‘40%·6억원’은 바뀌지 않는다](https://www.fnnews.com/news/202607241356580800?utm_source=chatgpt.com)
 
 ---
 
